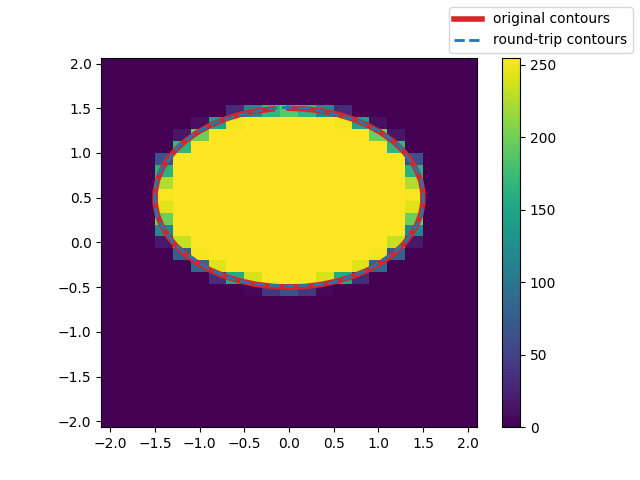
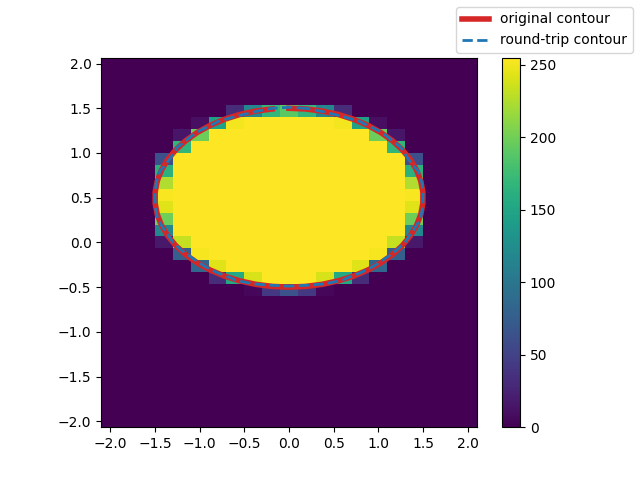
adjust label

Changed region(s): [[0.6875, 0.0312, 1.0, 0.0938]]

diff --git a/radiotherapyai/mask/test_convert.py b/radiotherapyai/mask/test_convert.py
@@ -88,12 +88,12 @@ def test_conversion_round_trip():
     fig.colorbar(c)  # pyright: ignore [reportUnknownMemberType]
 
     ax.plot(  # pyright: ignore [reportUnknownMemberType]
-        x, y, "C3", lw=4, label="original contours"
+        x, y, "C3", lw=4, label="original contour"
     )
 
     for contour in round_trip_contours:
         ax.plot(  # pyright: ignore [reportUnknownMemberType]
-            contour[:, 1], contour[:, 0], "--", lw=2, label="round-trip contours"
+            contour[:, 1], contour[:, 0], "--", lw=2, label="round-trip contour"
         )
 
     ax.set_aspect("equal")  # pyright: ignore [reportUnknownMemberType]
